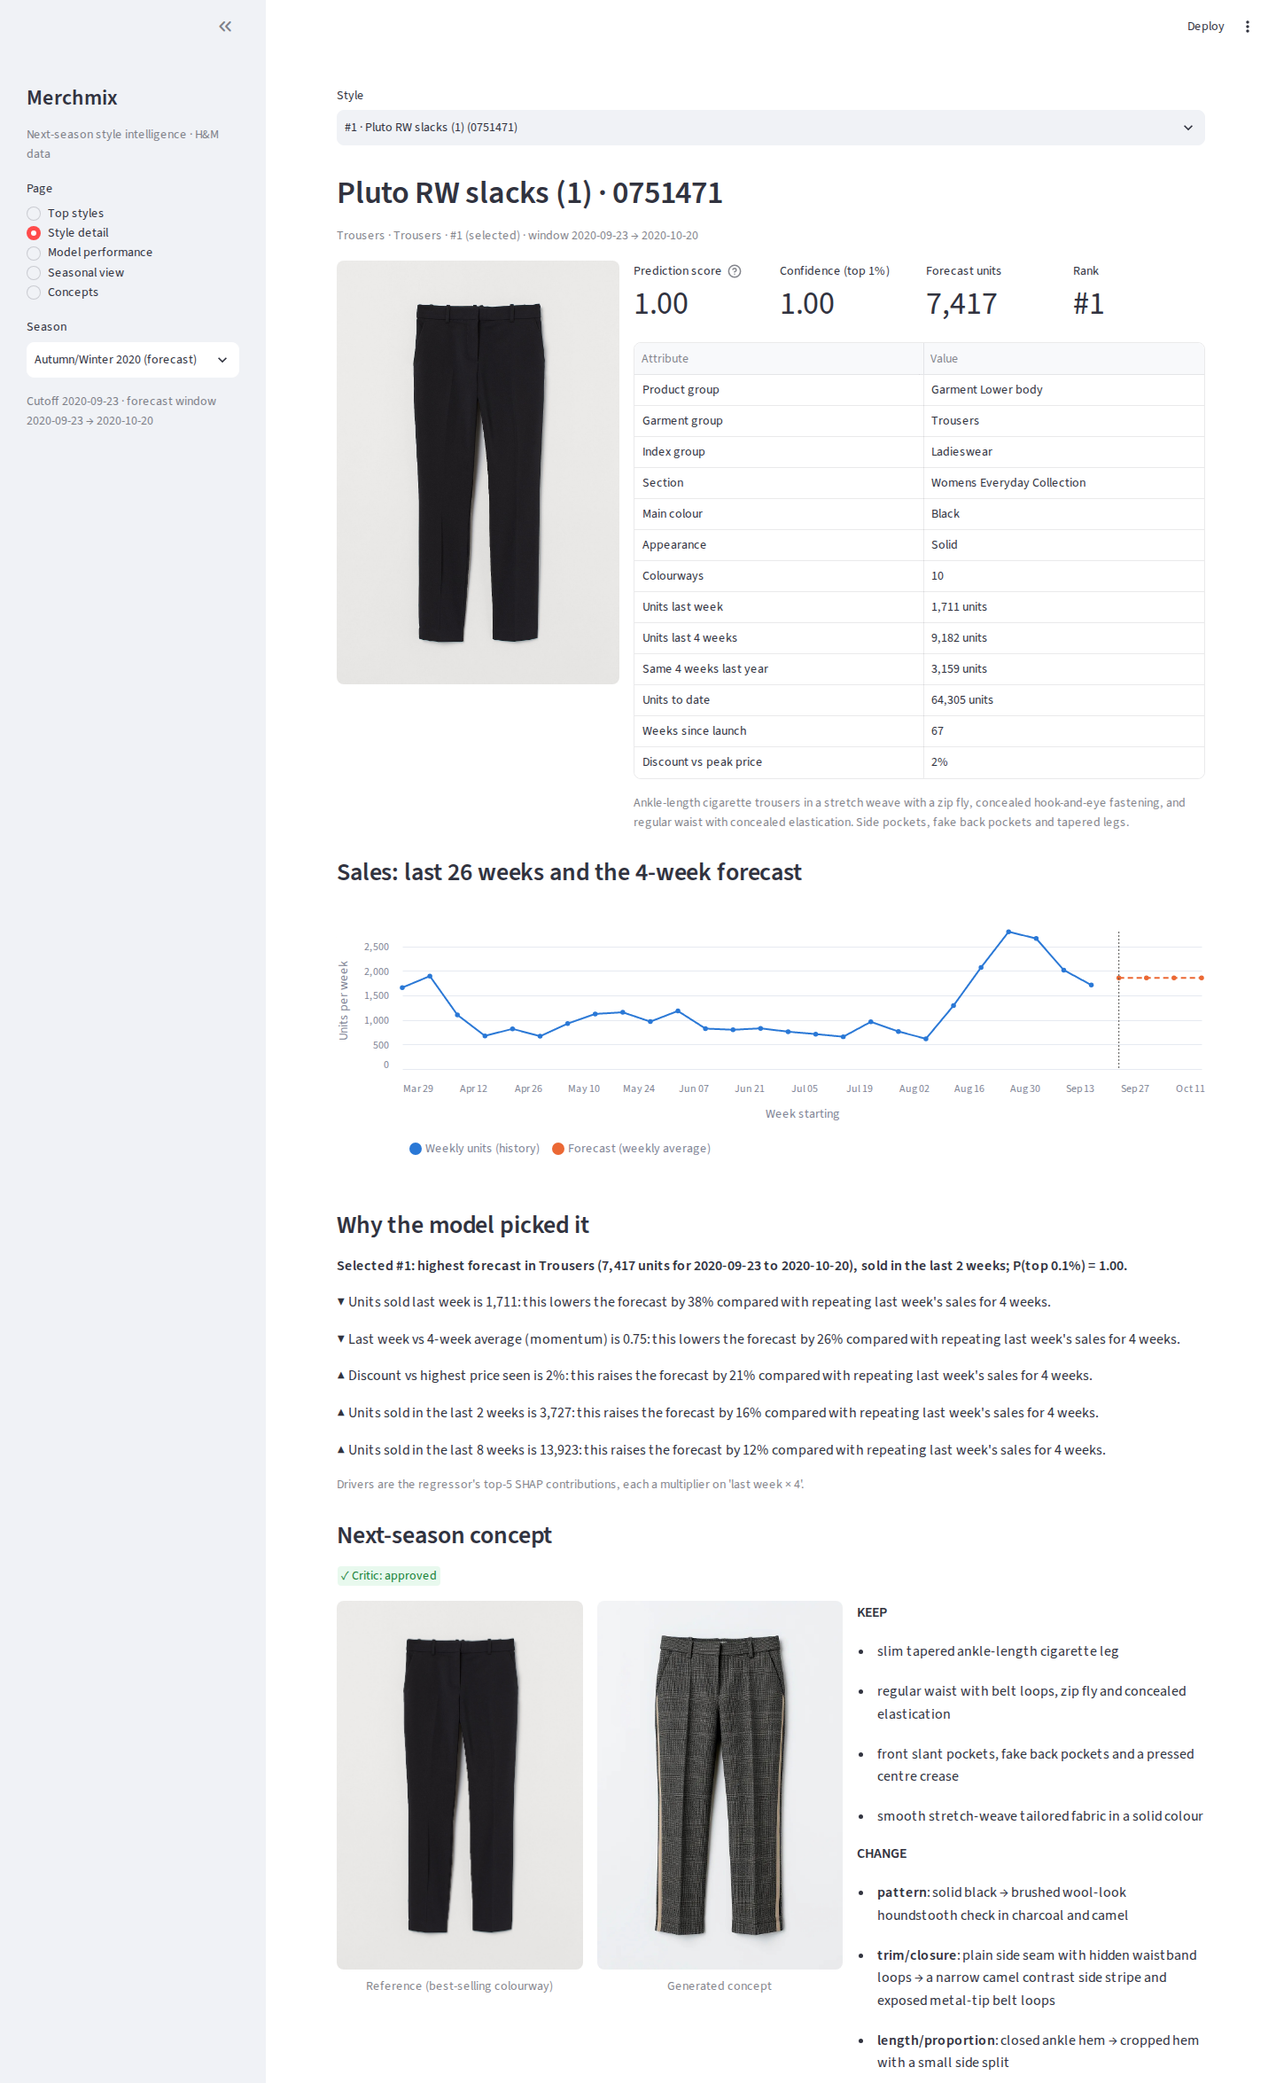
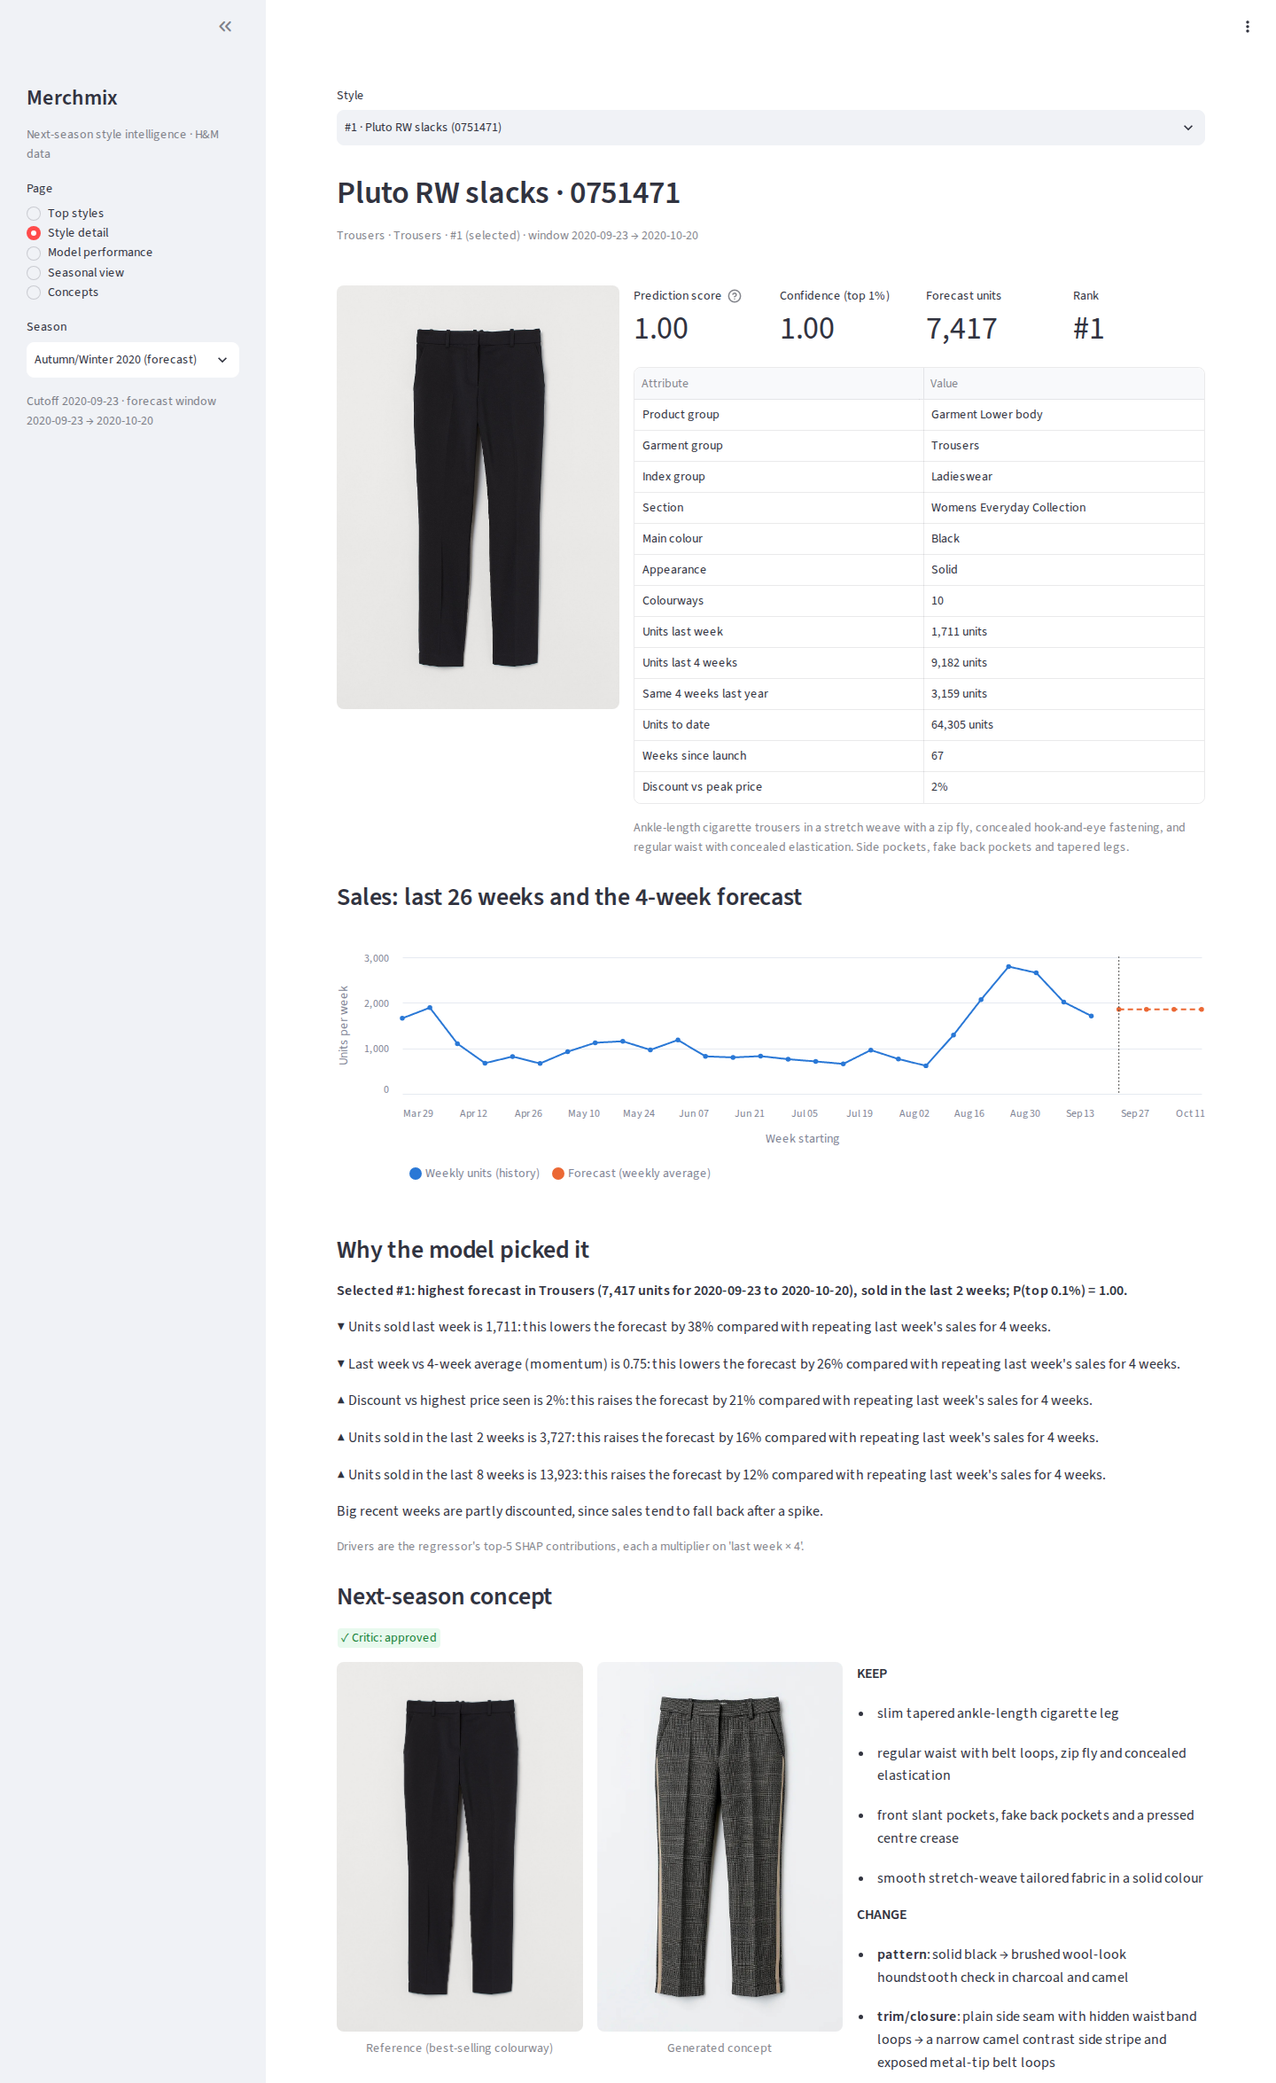
Frontend polish: display names, top-styles table, chart domain, captions
- API: `name` drops a trailing copy number (" (1)"); the original is in `raw_name` (schemas, API.md)
- Top styles table: Rank by forecast units + "Top-3 pick" ✓ column, sorted by rank,
  caption naming the style skipped by the one-per-garment-group rule
- Detail: y-axis domain fits history, forecast and actuals; spacer so the image expand
  icon clears the subtitle; note that big recent weeks are partly discounted
- Model performance: explain precision@12 (k from MAP@12) and point to P@20/@50
- .streamlit/config.toml: toolbarMode = "viewer" (hides Deploy)
- Screenshots retaken; tests for display names, table and captions

diff --git a/frontend/app.py b/frontend/app.py
@@ -134,6 +134,20 @@ def sidebar(seasons: list[dict]) -> tuple[str, str]:
 
 
 # --- pages --------------------------------------------------------------------------------------------------------
+def skipped_caption(styles: list[dict]) -> str:
+    """Explain the per-garment-group rule with the highest-ranked style it skipped."""
+    rule = "Top 3 = highest forecast per garment group"
+    picks = {s["category"]["garment_group"]: s for s in styles if s["rank"]}
+    last = max((s["forecast_rank"] for s in picks.values()), default=0)
+    skipped = next((s for s in sorted(styles, key=lambda s: s["forecast_rank"])
+                    if not s["rank"] and s["forecast_rank"] < last and s["category"]["garment_group"] in picks), None)
+    if skipped is None:
+        return rule + "."
+    group = skipped["category"]["garment_group"]
+    return (f"{rule}, so {skipped['name']} (#{skipped['forecast_rank']} by units) is skipped because {group} is "
+            f"already covered by {picks[group]['name']}.")
+
+
 def page_top(season: str) -> None:
     head = api("/styles/top", limit=200, offset=0, season=season)
     st.header("Top predicted styles")
@@ -160,16 +174,18 @@ def page_top(season: str) -> None:
                 open_style(s["style_id"])
 
     st.subheader("All styles")
+    st.caption(skipped_caption(head["styles"]))
     f1, f2 = st.columns([3, 1])
     groups = sorted({s["category"]["garment_group"] for s in head["styles"] if s["category"]["garment_group"]})
     chosen = f1.multiselect("Garment group", groups, placeholder="All garment groups")
     limit = f2.slider("Number of styles", 10, 200, 50, step=10)
-    rows = [s for s in head["styles"][:limit] if not chosen or s["category"]["garment_group"] in chosen]
+    by_rank = sorted(head["styles"], key=lambda s: s["forecast_rank"])
+    rows = [s for s in by_rank[:limit] if not chosen or s["category"]["garment_group"] in chosen]
     if not rows:
         st.info("No styles match the filter.")
         return
     df = pd.DataFrame([{
-        "Rank": f"#{s['rank']}" if s["rank"] else "", "By units": s["forecast_rank"], "Photo": thumbnail_uri(s["image_url"]),
+        "Rank": s["forecast_rank"], "Top-3 pick": "✓" if s["rank"] else "", "Photo": thumbnail_uri(s["image_url"]),
         "Style": s["style_id"], "Name": s["name"], "Prediction score": s["prediction_score"],
         "Confidence (top 1%)": s["confidence_top1pct"], "Forecast units": round(s["forecast_units"]),
         **({"Actual units": s["actual_units"]} if head["observed"] else {}),
@@ -179,8 +195,8 @@ def page_top(season: str) -> None:
         df, hide_index=True, width="stretch", height=min(57 * len(df) + 40, 900), row_height=56,
         on_select="rerun", selection_mode="single-row", key=f"table_{season}",
         column_config={
-            "Rank": st.column_config.TextColumn(width=50, help="selected top 3"),
-            "By units": st.column_config.NumberColumn(format="%d", width=65, help="rank by forecast units"),
+            "Rank": st.column_config.NumberColumn(format="%d", width=55, help="rank by forecast units"),
+            "Top-3 pick": st.column_config.TextColumn(width=75, help="one of the 3 selected styles"),
             "Photo": st.column_config.ImageColumn(width=60),
             "Style": st.column_config.TextColumn(width=70),
             "Name": st.column_config.TextColumn(width=190),
@@ -211,10 +227,12 @@ def sales_chart(d: dict) -> alt.Chart:
         layers.append(act)
     data = pd.concat(layers, ignore_index=True)
     names = ["Weekly units (history)", "Forecast (weekly average)", "Actual weekly units"][:len(layers)]
+    top = float(data["units"].max() or 0) * 1.08 or 1
     colors = alt.Scale(domain=names, range=["#2a78d6", "#eb6834", "#1baf7a"][:len(layers)])
     base = alt.Chart(data).encode(
         x=alt.X("week_start:T", title="Week starting"),
-        y=alt.Y("units:Q", title="Units per week", axis=alt.Axis(format=",d")),
+        y=alt.Y("units:Q", title="Units per week", axis=alt.Axis(format=",d"),
+                scale=alt.Scale(domain=[0, top], nice=False, clamp=False)),
         color=alt.Color("series:N", scale=colors, legend=alt.Legend(orient="bottom", title=None, labelLimit=260)),
         tooltip=[alt.Tooltip("week_start:T", title="Week"), alt.Tooltip("units:Q", format=",.0f"), "series:N"])
     line = base.mark_line(point=True).encode(strokeDash=alt.condition(
@@ -246,6 +264,7 @@ def page_detail(season: str) -> None:
     rank = f"#{d['rank']} (selected)" if d["rank"] else f"forecast rank #{d['forecast_rank']}"
     st.caption(f"{d['category']['product_type']} · {d['category']['garment_group']} · {rank} · "
                f"window {d['forecast_window']['start']} → {d['forecast_window']['end']}")
+    st.space("small")  # keeps the image's hover toolbar (expand icon) clear of the subtitle
 
     left, right = st.columns([1, 2])
     with left:
@@ -283,6 +302,7 @@ def page_detail(season: str) -> None:
     for r in d["explanation"]["reasons"]:
         arrow = "▲" if r["direction"] == "raises" else "▼" if r["direction"] == "lowers" else "•"
         st.markdown(f"{arrow} {r['text']}")
+    st.markdown("Big recent weeks are partly discounted, since sales tend to fall back after a spike.")
     st.caption("Drivers are the regressor's top-5 SHAP contributions, each a multiplier on 'last week × 4'.")
 
     c = d.get("concept")
@@ -326,6 +346,9 @@ def page_performance() -> None:
                                 "Precision@12": f"{r['precision@12']['mean']:.3f} ± {r['precision@12']['std']:.3f}"}
                                for r in reg["backtest"]]), hide_index=True, width="stretch")
     st.caption(" · ".join(f"Wins on NDCG@50 vs {w['baseline']}: {w['wins']}/{w['of']}" for w in reg["ndcg50_wins"]))
+    st.caption("Precision@12 = share of the predicted top 12 that are in the actual top 12; k = 12 matches the H&M "
+               "Kaggle competition's MAP@12. The regressor's precision at 20 and 50 against the winner labels is in "
+               "the classifier tables below (row 'LightGBM regressor (units)').")
 
     for key, title in (("classifier_top1pct", "Winner classifier, top 1% label"),
                        ("classifier_top0.1pct", "Winner classifier, top 0.1% label (the displayed score)")):

diff --git a/backend/model_service.py b/backend/model_service.py
@@ -18,6 +18,7 @@ SEASON_FILES = {"AW2020": config.OUT_DIR / "predictions.json", "SS2020": config.
 DEFAULT_SEASON = "AW2020"
 SUMMARY_PATH = config.OUT_DIR / "model_summary.json"
 IMAGE_PREFIX = "/images"
+_COPY_SUFFIX = re.compile(r"\s*\(\d+\)\s*$")
 _REASON = re.compile(r"^(?P<feature>.+?) = (?P<value>.+?) → (?P<direction>raises|lowers) the forecast "
                      r"×(?P<mult>[\d.]+) vs the last-week run-rate$")
 
@@ -45,6 +46,11 @@ def normalize_style_id(raw: str) -> str:
     if not s.isdigit() or len(s) > 7:
         raise StyleNotFound(s, f"Malformed style_id {s!r}: expected up to 7 digits (a product_code, e.g. 0751471).")
     return s.zfill(7)
+
+
+def display_name(raw: str | None) -> str | None:
+    """'Pluto RW slacks (1)' -> 'Pluto RW slacks': drop the trailing copy number articles.csv adds to some names."""
+    return _COPY_SUFFIX.sub("", raw) if raw else raw
 
 
 def plain_reason(raw: str) -> dict:
@@ -113,7 +119,8 @@ class ModelService:
     def summary(self, s: dict) -> dict:
         hist = s["sales_history_26w"]
         return {
-            "style_id": s["style_id"], "name": s["name"], "rank": s["rank"], "forecast_rank": s["forecast_rank"],
+            "style_id": s["style_id"], "name": display_name(s["name"]), "raw_name": s["name"], "rank": s["rank"],
+            "forecast_rank": s["forecast_rank"],
             "prediction_score": s["prediction_score"], "confidence_top1pct": s["confidence_top1pct"],
             "forecast_units": s["forecast_units"], "category": self._category(s),
             "sales_history": {"last_8_weeks": [{"week_start": w["week_start"], "units": w["units"]} for w in hist[-8:]],
@@ -140,11 +147,11 @@ class ModelService:
         head = f"Forecast rank #{s['forecast_rank']} ({s['forecast_units']:,.0f} units)"
         if same is not None:
             return (f"{head}; not in the top 3 because {group} is already represented by #{same['rank']} "
-                    f"{same['name']} ({same['forecast_units']:,.0f} units forecast).")
+                    f"{display_name(same['name'])} ({same['forecast_units']:,.0f} units forecast).")
         if not s["performance"].get("units_last_2w"):
             return f"{head}; not in the top 3 because it did not sell in the last 2 weeks (availability proxy)."
         third = self.selected[-1]
-        return f"{head}; not in the top 3: its forecast is below #3 {third['name']} ({third['forecast_units']:,.0f} units)."
+        return f"{head}; not in the top 3: its forecast is below #3 {display_name(third['name'])} ({third['forecast_units']:,.0f} units)."
 
     def concept(self, s: dict) -> dict | None:
         """Generated concept for a top-3 style (from the published evidence files), else None."""
@@ -175,7 +182,8 @@ class ModelService:
         refs = [u for u in (self.image_url(p) for p in self._reference_paths(s)) if u]
         return {
             "season": self.season, "cutoff": self.meta["cutoff"], "forecast_window": self.meta["forecast_window"],
-            "style_id": s["style_id"], "name": s["name"], "rank": s["rank"], "forecast_rank": s["forecast_rank"],
+            "style_id": s["style_id"], "name": display_name(s["name"]), "raw_name": s["name"], "rank": s["rank"],
+            "forecast_rank": s["forecast_rank"],
             "prediction_score": s["prediction_score"], "confidence_top1pct": s["confidence_top1pct"],
             "p_top0_1pct": s["p_top0_1pct"], "forecast_units": s["forecast_units"], "category": self._category(s),
             "attributes": s["attributes"], "performance": s["performance"],

diff --git a/backend/schemas.py b/backend/schemas.py
@@ -33,7 +33,8 @@ class ForecastWindow(BaseModel):
 
 class StyleSummary(BaseModel):
     style_id: str = Field(description="product_code: 7 digits, all colour variants of one design")
-    name: str | None
+    name: str | None = Field(description="display name (trailing copy number such as ' (1)' removed)")
+    raw_name: str | None = Field(description="product name as in articles.csv")
     rank: int | None = Field(description="1-3 for the selected winners, null for every other style")
     forecast_rank: int = Field(description="position by forecast units among all scored styles")
     prediction_score: float = Field(description="calibrated P(style is a top-0.1% seller over the next 4 weeks)")
@@ -61,7 +62,7 @@ class TopStylesResponse(BaseModel):
         "season": "AW2020", "season_label": "Autumn/Winter 2020 (forecast)", "observed": False,
         "cutoff": "2020-09-23", "forecast_window": {"start": "2020-09-23", "end": "2020-10-20"},
         "total": 200, "limit": 1, "offset": 0,
-        "styles": [{"style_id": "0751471", "name": "Pluto RW slacks (1)", "rank": 1, "forecast_rank": 1,
+        "styles": [{"style_id": "0751471", "name": "Pluto RW slacks", "raw_name": "Pluto RW slacks (1)", "rank": 1, "forecast_rank": 1,
                     "prediction_score": 1.0, "confidence_top1pct": 1.0, "forecast_units": 7417.3,
                     "category": {"product_type": "Trousers", "garment_group": "Trousers"},
                     "sales_history": {"last_8_weeks": [{"week_start": "2020-09-16", "units": 1711}],
@@ -125,7 +126,8 @@ class StyleDetail(BaseModel):
     cutoff: date
     forecast_window: ForecastWindow
     style_id: str
-    name: str | None
+    name: str | None = Field(description="display name (trailing copy number such as ' (1)' removed)")
+    raw_name: str | None = Field(description="product name as in articles.csv")
     rank: int | None
     forecast_rank: int
     prediction_score: float
@@ -144,7 +146,7 @@ class StyleDetail(BaseModel):
 
     model_config = ConfigDict(json_schema_extra={"examples": [{
         "season": "AW2020", "cutoff": "2020-09-23", "forecast_window": {"start": "2020-09-23", "end": "2020-10-20"},
-        "style_id": "0751471", "name": "Pluto RW slacks (1)", "rank": 1, "forecast_rank": 1,
+        "style_id": "0751471", "name": "Pluto RW slacks", "raw_name": "Pluto RW slacks (1)", "rank": 1, "forecast_rank": 1,
         "prediction_score": 1.0, "confidence_top1pct": 1.0, "p_top0_1pct": 1.0, "forecast_units": 7417.3,
         "category": {"product_type": "Trousers", "garment_group": "Trousers"},
         "attributes": {"colour_group_name": "Black", "n_colours": 10},

diff --git a/tests/test_frontend.py b/tests/test_frontend.py
@@ -50,9 +50,14 @@ def test_top_page_renders(api) -> None:
     assert not at.exception
     assert at.header[0].value == "Top predicted styles"
     text = _text(at)
-    assert "#1 Pluto RW slacks (1)" in text and "#3 RICHIE HOOD" in text
+    assert "#1 Pluto RW slacks" in text and "(1)" not in text and "#3 RICHIE HOOD" in text
     assert "Critic: not approved" in text  # RICHIE's concept is shown honestly
-    assert len(at.dataframe) == 1 and len(at.dataframe[0].value) == 50
+    assert ("so Jade HW Skinny Denim TRS (#2 by units) is skipped because Trousers is already covered by "
+            "Pluto RW slacks.") in text
+    table = at.dataframe[0].value
+    assert len(at.dataframe) == 1 and len(table) == 50
+    assert list(table["Rank"][:4]) == [1, 2, 3, 4]
+    assert list(table["Top-3 pick"][:4]) == ["✓", "", "✓", "✓"]
 
 
 def test_detail_page_renders_for_top3(api) -> None:
@@ -63,14 +68,15 @@ def test_detail_page_renders_for_top3(api) -> None:
         at.run()
     assert not at.exception
     text = _text(at)
-    assert at.header[0].value.startswith("Pluto RW slacks (1)")
+    assert at.header[0].value == "Pluto RW slacks  ·  0751471"
     assert "Selected #1" in text and "KEEP" in text and "CHANGE" in text and "Critic: approved" in text
     assert sum(1 for m in at.markdown if m.value.startswith(("▲", "▼"))) == 5
+    assert "Big recent weeks are partly discounted" in text
 
 
 def test_seasonal_and_performance_pages_render(api) -> None:
     with mock.patch("httpx.get", side_effect=_mock_get(api)):
-        for page, expect in (("seasonal", "7/10"), ("performance", "Regressor vs baselines")):
+        for page, expect in (("seasonal", "7/10"), ("performance", "k = 12 matches")):
             at = AppTest.from_file(APP, default_timeout=60)
             at.query_params["page"] = page
             at.run()

diff --git a/tests/test_api.py b/tests/test_api.py
@@ -27,9 +27,18 @@ def test_top_list(client: TestClient) -> None:
     assert set(first) >= {"style_id", "name", "prediction_score", "confidence_top1pct", "forecast_units", "rank",
                           "category", "sales_history", "image_url"}
     assert first["category"] == {"product_type": "Trousers", "garment_group": "Trousers"}
+    assert first["name"] == "Pluto RW slacks" and first["raw_name"] == "Pluto RW slacks (1)"
     assert len(first["sales_history"]["last_8_weeks"]) == 8
     assert first["sales_history"]["units_last_4w"] == 9182
     assert first["image_url"] is None or first["image_url"].startswith("/images/refs/0751471/")
+
+
+@pytest.mark.parametrize("raw, shown", [("Pluto RW slacks (1)", "Pluto RW slacks"), ("Edda top(1)", "Edda top"),
+                                         ("Lucy blouse", "Lucy blouse"), ("Rose thong 7-pack(2)", "Rose thong 7-pack"),
+                                         (None, None)])
+def test_display_name_strips_copy_number(raw, shown) -> None:
+    from backend.model_service import display_name
+    assert display_name(raw) == shown
 
 
 def test_offset_paginates(client: TestClient) -> None:

diff --git a/API.md b/API.md
@@ -112,7 +112,7 @@ curl "localhost:8000/styles/top?limit=2"
   "total": 200, "limit": 2, "offset": 0,
   "styles": [
     {
-      "style_id": "0751471", "name": "Pluto RW slacks (1)", "rank": 1, "forecast_rank": 1,
+      "style_id": "0751471", "name": "Pluto RW slacks", "raw_name": "Pluto RW slacks (1)", "rank": 1, "forecast_rank": 1,
       "prediction_score": 1.0, "confidence_top1pct": 1.0, "forecast_units": 7417.3,
       "category": {"product_type": "Trousers", "garment_group": "Trousers"},
       "sales_history": {
@@ -147,7 +147,7 @@ curl localhost:8000/styles/751471
 ```
 ```json
 {
-  "style_id": "0751471", "name": "Pluto RW slacks (1)", "rank": 1, "forecast_rank": 1,
+  "style_id": "0751471", "name": "Pluto RW slacks", "raw_name": "Pluto RW slacks (1)", "rank": 1, "forecast_rank": 1,
   "prediction_score": 1.0, "confidence_top1pct": 1.0, "p_top0_1pct": 1.0, "forecast_units": 7417.3,
   "category": {"product_type": "Trousers", "garment_group": "Trousers"},
   "attributes": {"product_group_name": "Garment Lower body", "garment_group_name": "Trousers",
@@ -185,9 +185,11 @@ curl localhost:8000/styles/751471
 }
 ```
 
+- `name` is the display name: a trailing copy number such as `" (1)"` is removed. `raw_name` is the name as in
+  articles.csv.
 - The 5 `reasons` are the regressor's TreeSHAP drivers; each is a multiplier on the naive "last week × 4" forecast.
 - `why_selected` also explains non-selection, e.g. `GET /styles/0706016` (Jade, forecast rank 2): *"Forecast rank #2
-  (6,854 units); not in the top 3 because Trousers is already represented by #1 Pluto RW slacks (1) (7,417 units
+  (6,854 units); not in the top 3 because Trousers is already represented by #1 Pluto RW slacks (7,417 units
   forecast)."*
 - `concept` is `null` for every style outside the top 3. For RICHIE (`0685814`) the critic did not approve the final
   concept (`"decision": "revise"`, `"status": "Critic: not approved"`): the image model did not change the hoodie's
